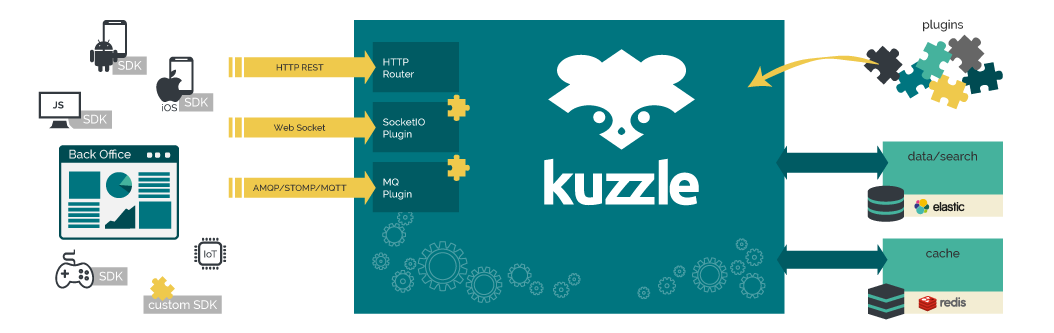
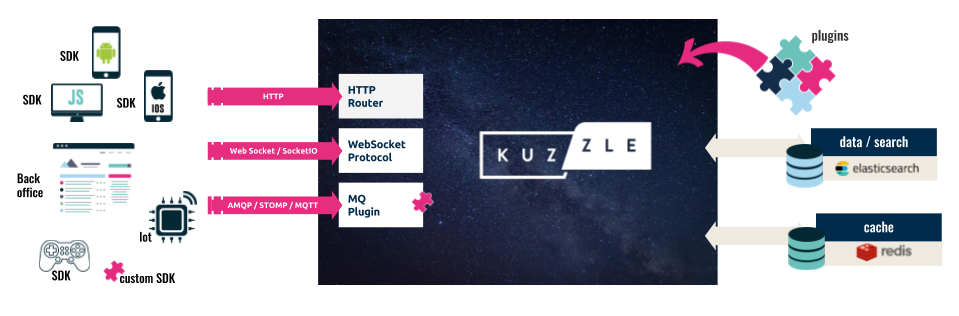
#150: Update core architecture and overview schema

diff --git a/src/guide/kuzzle-depth/index.md b/src/guide/kuzzle-depth/index.md
@@ -18,8 +18,9 @@ In this section we'll take a deeper look at the Kuzzle Core internals.
 
 The above schema shows the main architecture in Kuzzle, which is composed of the following entities.
 
-* **Kuzzle Proxy**: handles the communication between the client and Kuzzle (see [Connecting to kuzzle]({{ site_base_path }}api-documentation/connecting-to-kuzzle/)), and forwards the input message to the Router.
-* **Router**: exposes the API routes, normalizes the Request and sends them to the Funnel.
+* **Kuzzle Proxy**: handles the communication between the client and Kuzzle (see [Connecting to kuzzle]({{ site_base_path }}api-documentation/connecting-to-kuzzle/)), and forwards the input message to Kuzzle.
+* **Entry Points**: handles the incoming message from the Proxy and sends them to the Funnel.
+* **Router**: exposes the API HTTP routes, normalizes the Request and sends them to the Funnel.
 * **Funnel**: analyses the Request and forwards it to the appropriate Controller.
 * **Controllers**: handle and respond to client requests (see [API reference]({{ site_base_path }}api-documentation))
 * **Internal Components**: Any component internally accessed by controllers.
@@ -33,8 +34,6 @@ Kuzzle currently implements the following Services:
 
 * [elasticsearch.js](https://github.com/kuzzleio/kuzzle/blob/master/lib/services/elasticsearch.js): interface to [Elasticsearch](https://www.elastic.co/products/elasticsearch), used for persistent data storage.
 * [redis.js](https://github.com/kuzzleio/kuzzle/blob/master/lib/services/redis.js): interface to the [redis](http://redis.io) cache server.
-* [proxyBroker.js](https://github.com/kuzzleio/kuzzle/blob/master/lib/services/proxyBroker.js): interface with the proxy.
-* [Broker Client and Server](https://github.com/kuzzleio/kuzzle/blob/master/lib/services/broker): implementation of the internal message broker.
 * [internalEngine.js](https://github.com/kuzzleio/kuzzle/blob/master/lib/services/internalEngine/): light interface with the internal index (containing kuzzle's configuration) in Elastic Search.
 
 
